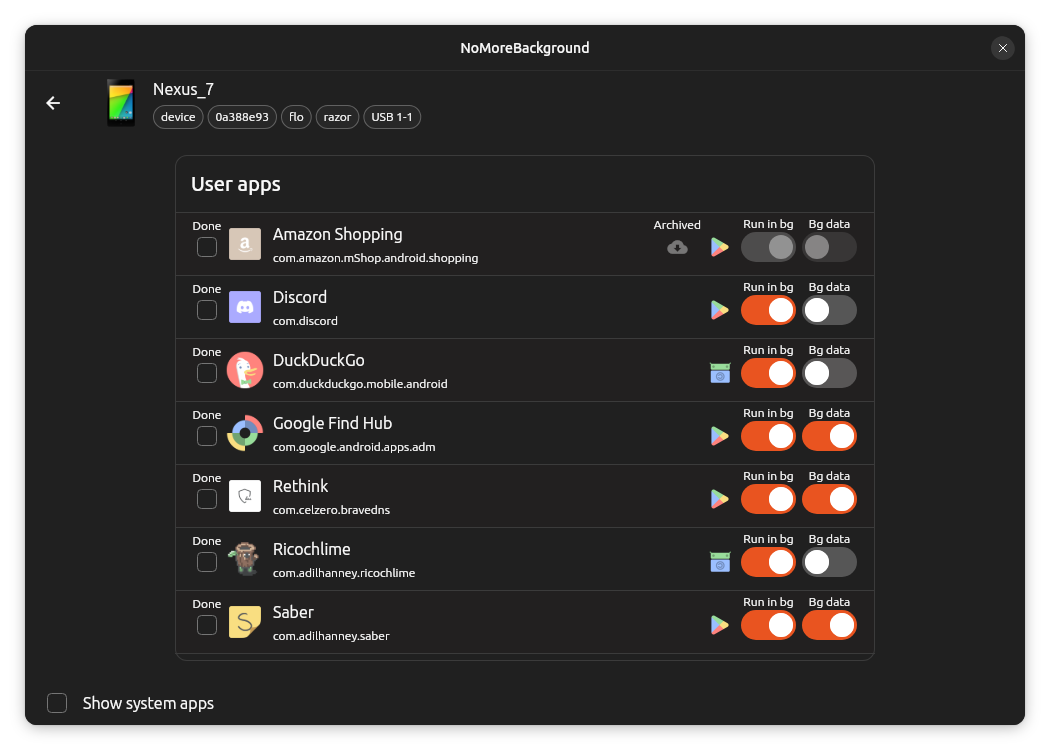
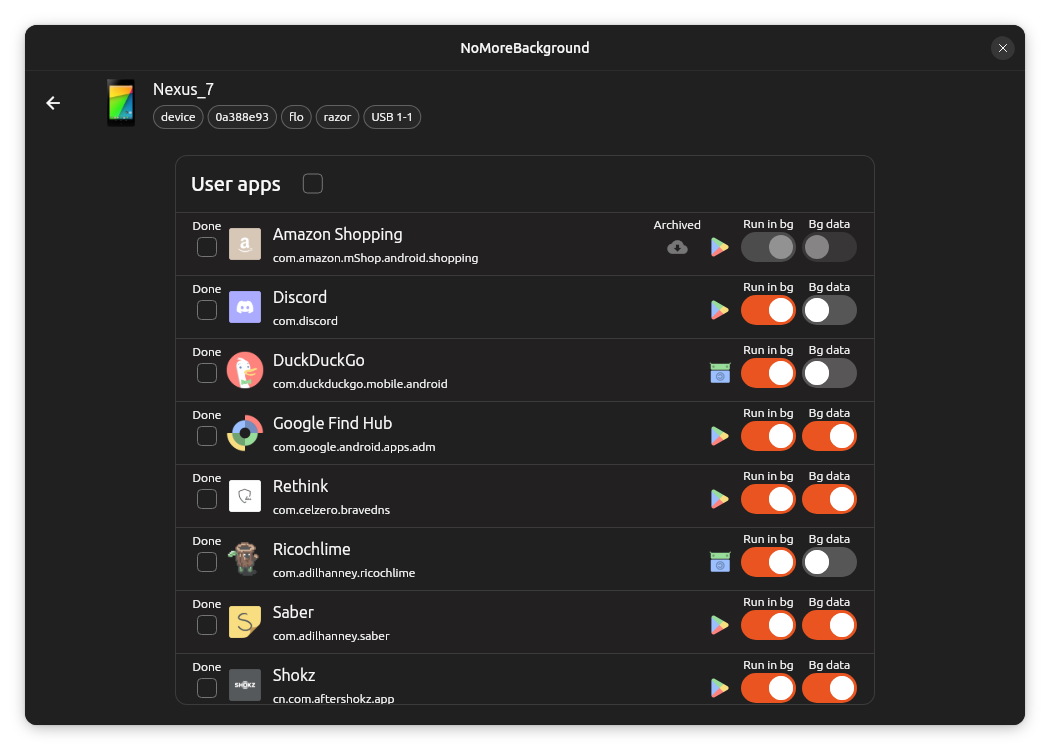
ref: use hooks for app list; move system apps checkbox

Changed region(s): [[0.061, 0.8587, 0.3962, 0.9507], [0.6705, 0.8587, 0.8229, 0.9507]]

diff --git a/lib/pages/apps_page.dart b/lib/pages/apps_page.dart
@@ -1,13 +1,15 @@
 import 'package:flutter/material.dart';
+import 'package:flutter_hooks/flutter_hooks.dart';
 import 'package:no_more_background/components/app_tile.dart';
 import 'package:no_more_background/components/device_tile.dart';
 import 'package:no_more_background/compute/adb.dart';
 import 'package:no_more_background/data/adb_app.dart';
 import 'package:no_more_background/data/adb_permissions.dart';
 import 'package:no_more_background/data/constants.dart';
+import 'package:no_more_background/data/stows.dart';
 import 'package:yaru/yaru.dart';
 
-class AppsPage extends StatefulWidget {
+class AppsPage extends StatefulHookWidget {
   const AppsPage({super.key, required this.deviceSerial});
 
   final String deviceSerial;
@@ -27,23 +29,15 @@ class AppsPageState extends State<AppsPage> {
   List<AdbApp>? _unfilteredApps;
   List<AdbApp> apps = const [];
 
-  bool get showSystemApps => _showSystemApps;
-  bool _showSystemApps = false;
-  set showSystemApps(bool value) {
-    _showSystemApps = value;
-    _filterApps();
-  }
-
   Future<void> _loadApps() async {
     _unfilteredApps = await Adb.getApps(widget.deviceSerial);
-    _filterApps();
     if (mounted) setState(() {});
   }
 
   void _filterApps() {
     apps =
         _unfilteredApps
-            ?.where((app) => showSystemApps ? true : !app.isSystemApp)
+            ?.where((app) => stows.showSystemApps.value || !app.isSystemApp)
             .toList() ??
         const [];
     _loadAbsentPermissions();
@@ -60,7 +54,9 @@ class AppsPageState extends State<AppsPage> {
       batchStart = batchEnd;
       if (!mounted) return;
       setState(() {});
+
       await null;
+      if (!mounted) return;
     }
   }
 
@@ -89,6 +85,9 @@ class AppsPageState extends State<AppsPage> {
 
   @override
   Widget build(BuildContext context) {
+    final showSystemApps = useValueListenable(stows.showSystemApps);
+    useMemoized(_filterApps, [showSystemApps, _unfilteredApps]);
+
     return Scaffold(
       appBar: AppBar(
         toolbarHeight: 64,
@@ -104,20 +103,12 @@ class AppsPageState extends State<AppsPage> {
                 padding: const .all(kYaruPagePadding),
                 child: YaruSection(
                   width: kMaxContentWidth,
-                  headline: Column(
-                    crossAxisAlignment: .stretch,
-                    children: [
-                      Padding(
-                        padding: const .all(16),
-                        child: showSystemApps
-                            ? Text('All apps')
-                            : Text('User apps'),
-                      ),
-                      const Divider(),
-                    ],
-                  ),
                   padding: .zero,
                   headlinePadding: .zero,
+                  headline: Column(
+                    crossAxisAlignment: .stretch,
+                    children: [_HeadlineRow(), const Divider()],
+                  ),
                   child: ListView.separated(
                     itemCount: apps.length,
                     itemBuilder: (context, index) {
@@ -136,26 +127,31 @@ class AppsPageState extends State<AppsPage> {
               ),
             ),
           ),
-          if (showSystemApps)
-            Padding(
-              padding: const .symmetric(horizontal: kYaruPagePadding),
-              child: Text(
-                'Changing system app permissions could break or destabilize your device!\n'
-                'Only change them if you know what you are doing.',
-                style: TextStyle(color: ColorScheme.of(context).warning),
-              ),
-            ),
-          YaruCheckboxListTile(
-            value: showSystemApps,
-            onChanged: (value) {
-              showSystemApps = value!;
-              if (mounted) setState(() {});
-            },
-            title: const Text('Show system apps'),
-            controlAffinity: .leading,
-          ),
         ],
       ),
+    );
+  }
+}
+
+class _HeadlineRow extends HookWidget {
+  const _HeadlineRow();
+
+  @override
+  Widget build(BuildContext context) {
+    useListenable(stows.showSystemApps);
+    return Row(
+      children: [
+        Padding(
+          padding: const .all(16),
+          child: stows.showSystemApps.value
+              ? Text('All apps')
+              : Text('User apps'),
+        ),
+        YaruCheckbox(
+          value: stows.showSystemApps.value,
+          onChanged: (value) => stows.showSystemApps.value = value!,
+        ),
+      ],
     );
   }
 }

diff --git a/lib/data/stows.dart b/lib/data/stows.dart
@@ -14,4 +14,6 @@ class Stows {
       );
     }),
   );
+
+  final showSystemApps = PlainStow('showSystemApps', false);
 }
